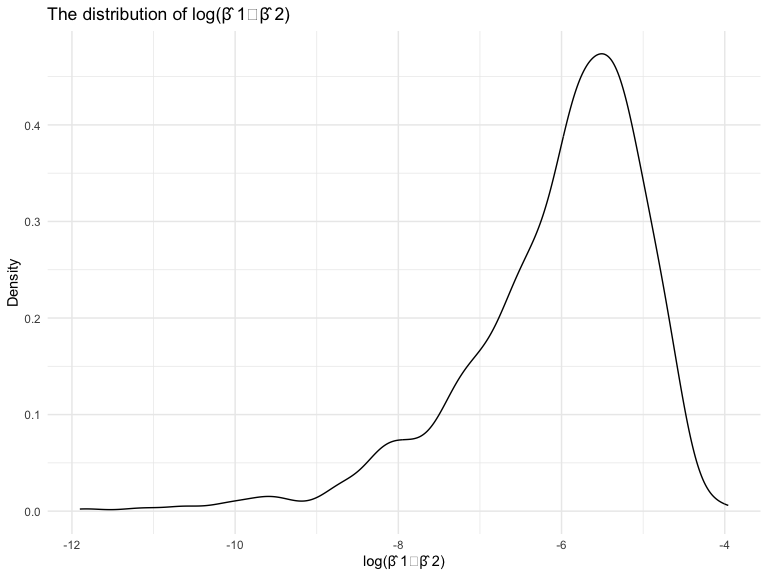
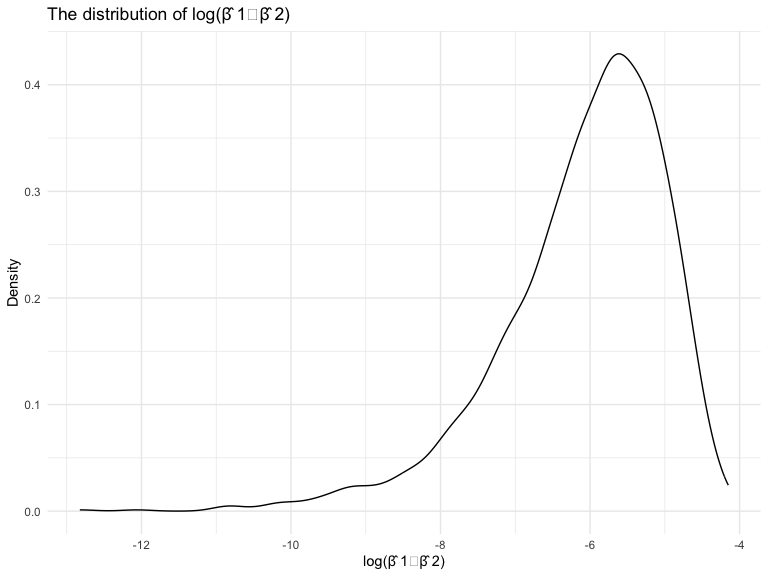
Question 3

diff --git a/p8105_hw6_yz4434.md b/p8105_hw6_yz4434.md
@@ -158,8 +158,6 @@ estimates, and describe these in words. Using the 5000 bootstrap
 estimates, identify the 2.5% and 97.5% quantiles to provide a 95%
 confidence interval for r̂ 2 and log(β̂ 0∗β̂ 1)
 
-#### R hat square
-
 ``` r
 # Create r square and log beta
 boot_sample = function(df) {
@@ -264,5 +262,147 @@ ci_results
     ## # A tibble: 2 × 3
     ##   type      ci_lower ci_upper
     ##   <chr>        <dbl>    <dbl>
-    ## 1 log_b1_b2   -8.75    -4.62 
-    ## 2 r.squared    0.888    0.940
+    ## 1 log_b1_b2   -8.94    -4.57 
+    ## 2 r.squared    0.889    0.940
+
+### Problem 3
+
+Import Data
+
+``` r
+birthweight_df = 
+  read_csv("data/birthweight.csv", na = c("", "NA", "Unknown")) |> 
+  mutate(
+    babysex = as.factor(babysex),
+    babysex = recode(babysex, "1" ="male", "2"="female" ),
+    mrace = as.factor(mrace),
+    mrace = recode(mrace, "1" ="White", "2"="Black", "3" = "Asian"),
+    frace = as.factor(frace),
+    frace = recode(frace, "1" ="White", "2"="Black", "3" = "Asian"))
+```
+
+    ## Rows: 4342 Columns: 20
+    ## ── Column specification ────────────────────────────────────────────────────────
+    ## Delimiter: ","
+    ## dbl (20): babysex, bhead, blength, bwt, delwt, fincome, frace, gaweeks, malf...
+    ## 
+    ## ℹ Use `spec()` to retrieve the full column specification for this data.
+    ## ℹ Specify the column types or set `show_col_types = FALSE` to quiet this message.
+
+``` r
+# Check for NA values
+sum(is.na(birthweight_df))
+```
+
+    ## [1] 0
+
+Description: According to this dataset, we can see that there are only
+three variable are categorical variables, including the sex of babies
+and races from patients. In this case, I would like to change them into
+factor with showing them in different level of characters. Besides that,
+I delete all redundant categories in race which doesn’t occur in this
+dataset. After checking this dataset, there is no missing data.
+
+#### Propose a regression model for birthweight
+
+The hypothesis I would like to create is to explore whether the factors
+of mother, including mother’s pre-pregnancy weight, weight gain during
+pregnancy, the age at delivery, with babies’ race which depends on
+parents’ races and the level of family income which directly determines
+the nutritional intake of the mother during pregnancy.Smoking during
+pregnancy might affect birthweight as well.
+
+``` r
+# Create my models based on the hypothesis above
+mod = lm(bwt ~ ppwt + wtgain + momage + frace + mrace + 
+           fincome + smoken, data = birthweight_df)
+```
+
+``` r
+birthweight_df = 
+  birthweight_df |> 
+  add_predictions(mod) |> 
+  add_residuals(mod)
+
+my_plot = birthweight_df |> 
+  ggplot(aes(x = pred, y = resid)) +
+  geom_point() +
+  xlab("Fitted Values") +
+  ylab("Residuals") +
+  ggtitle("Residuals vs Fitted Values")
+
+my_plot
+```
+
+<img src="p8105_hw6_yz4434_files/figure-gfm/unnamed-chunk-8-1.png" width="90%" />
+
+#### Comparing models
+
+``` r
+# Create the models
+mod1 = lm(bwt ~ blength + gaweeks, data = birthweight_df)
+mod2 = lm(bwt ~ bhead * blength * babysex, data = birthweight_df)
+```
+
+``` r
+# Cross-validation
+cv_df = 
+  crossv_mc(birthweight_df, 100) |> 
+    mutate(
+    train = map(train, as_tibble),
+    test = map(test, as_tibble)
+  )
+
+# Apply each model to all training datasets, and evaluate on all testing datasets
+cv_results =
+  cv_df |> 
+  mutate(
+    mod = map(train, \(birthweight_df) lm(bwt ~ ppwt + wtgain + momage + frace + mrace + fincome + smoken, data = birthweight_df)),
+    mod1 = map(train, \(birthweight_df) lm(bwt ~ blength + gaweeks, data = birthweight_df)),
+    mod2 = map(train, \(df) lm(bwt ~ bhead * blength * babysex, data = birthweight_df))
+  ) |> 
+  mutate(
+    rmse_mod = map2_dbl(mod, test, \(mod, df) rmse(mod, df)),
+    rmse_mod1 = map2_dbl(mod1, test, \(mod, df) rmse(mod, df)),
+    rmse_mod2 = map2_dbl(mod2, test, \(mod, df) rmse(mod, df))
+  )
+```
+
+``` r
+comparison = cv_results |> 
+  select(starts_with("rmse")) |> 
+  pivot_longer(
+    everything(),
+    names_to = "model_type",
+    values_to = "rmse",
+    names_prefix = "rmse_"
+  ) 
+
+comparison_mean = 
+  comparison|> 
+  group_by(model_type) |> 
+  summarize(m_rmse = mean(rmse))
+
+comparison_mean
+```
+
+    ## # A tibble: 3 × 2
+    ##   model_type m_rmse
+    ##   <chr>       <dbl>
+    ## 1 mod          451.
+    ## 2 mod1         333.
+    ## 3 mod2         287.
+
+``` r
+# Comparing models in plots
+
+comparison |> 
+  ggplot(aes(x = model_type, y = rmse)) +
+  geom_violin() +
+  labs(
+    title = "Comparison: rmse of 3 Different Models",
+    x = "Model Type"
+  )
+```
+
+<img src="p8105_hw6_yz4434_files/figure-gfm/unnamed-chunk-11-1.png" width="90%" />
